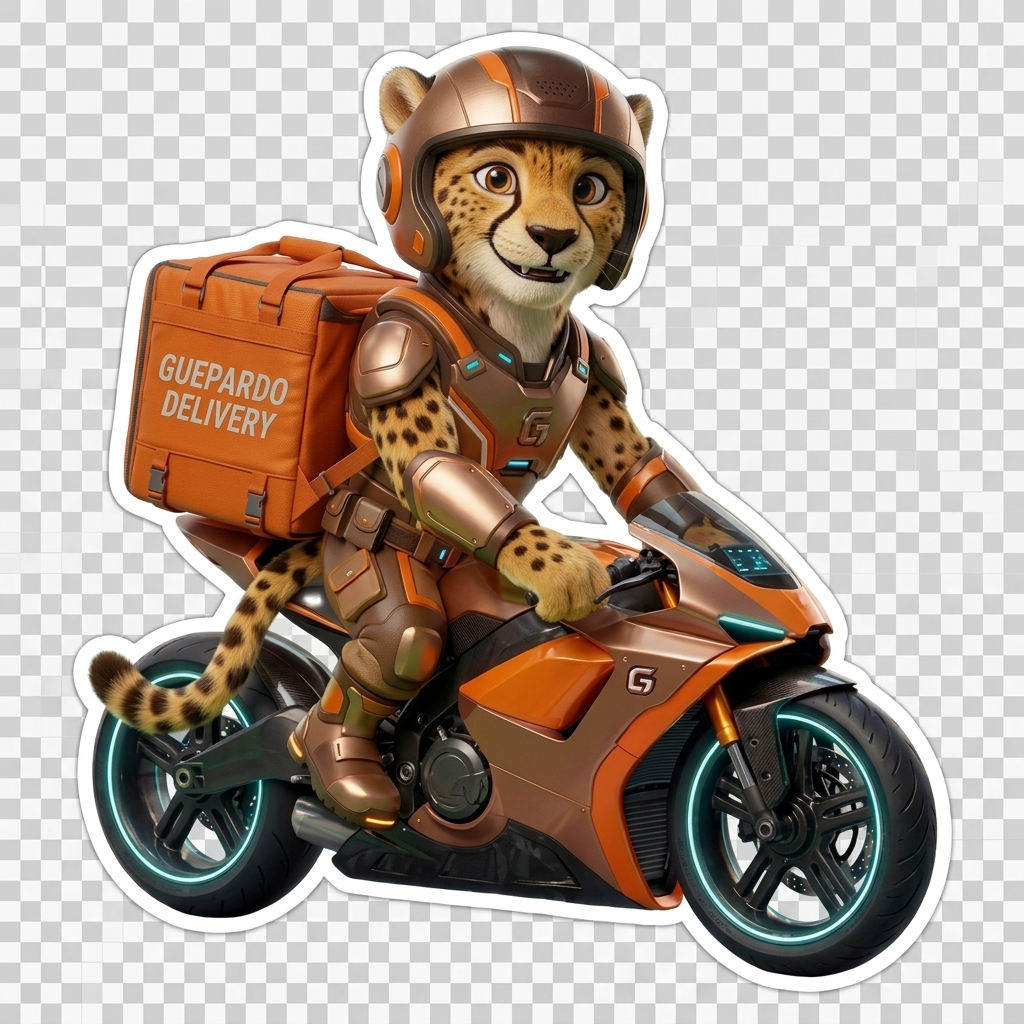
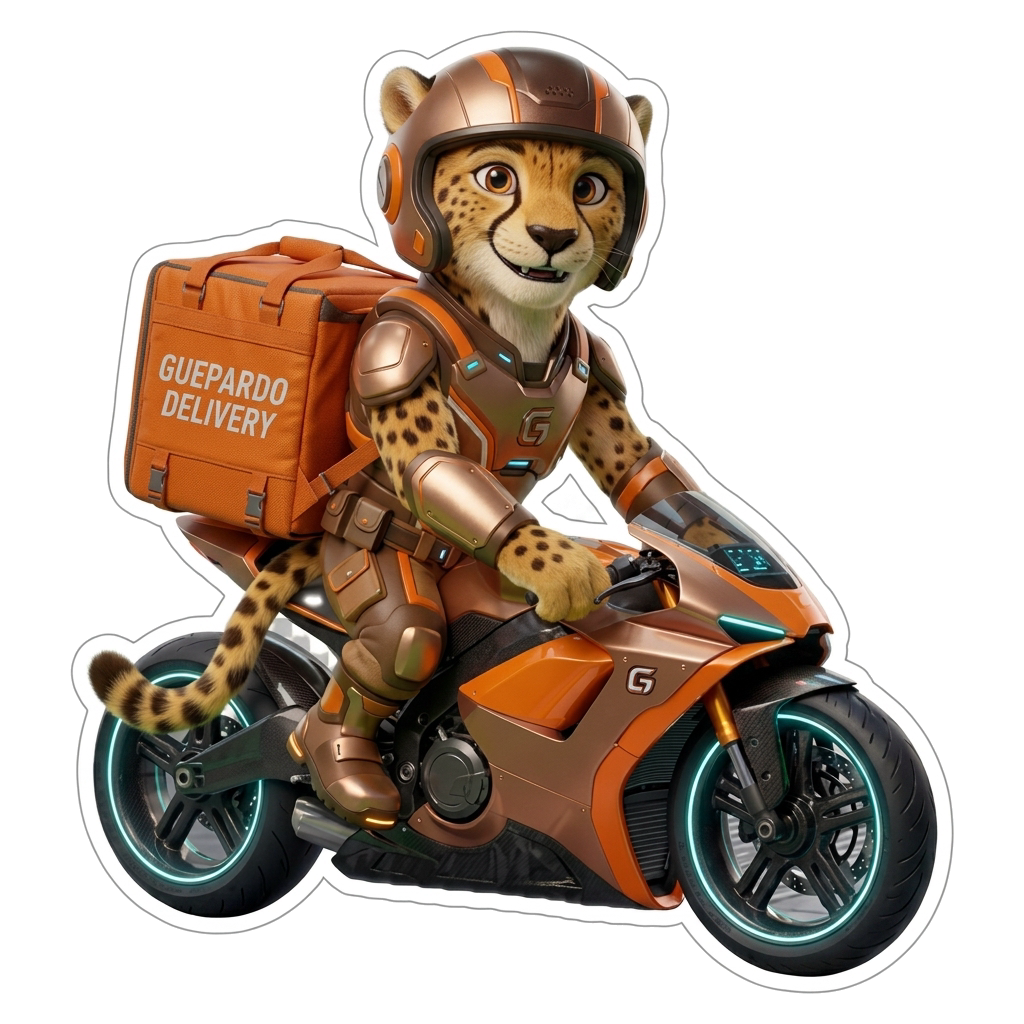
fix: resolve mascot background checkerboard and layout overflow issues

diff --git a/index.html b/index.html
@@ -8,7 +8,7 @@
     <link rel="icon" type="image/png" href="assets/logo-icon.png">
     <!-- Modern typography per requirements -->
     <link href="https://fonts.googleapis.com/css2?family=Outfit:wght@300;400;500;600;700;800&display=swap" rel="stylesheet">
-    <link rel="stylesheet" href="style.css?v=1.0.2">
+    <link rel="stylesheet" href="style.css?v=1.0.3">
     <!-- Google tag (gtag.js) -->
     <script async src="https://www.googletagmanager.com/gtag/js?id=G-DK4F89REHB"></script>
     <script>
@@ -492,7 +492,7 @@
                     <div class="driver-cta-visual">
                         <div class="d-visual-glow"></div>
                         <div class="d-pin-repro">
-                            <img src="assets/cheetah_futuristic_motorcycle.png?v=2" alt="Mascote Guepardo na Moto" class="d-img-xl">
+                            <img src="assets/cheetah_futuristic_motorcycle.png?v=3" alt="Mascote Guepardo na Moto" class="d-img-xl" style="width: 140px; height: 140px; object-fit: contain;">
                         </div>
                     </div>
                 </div>